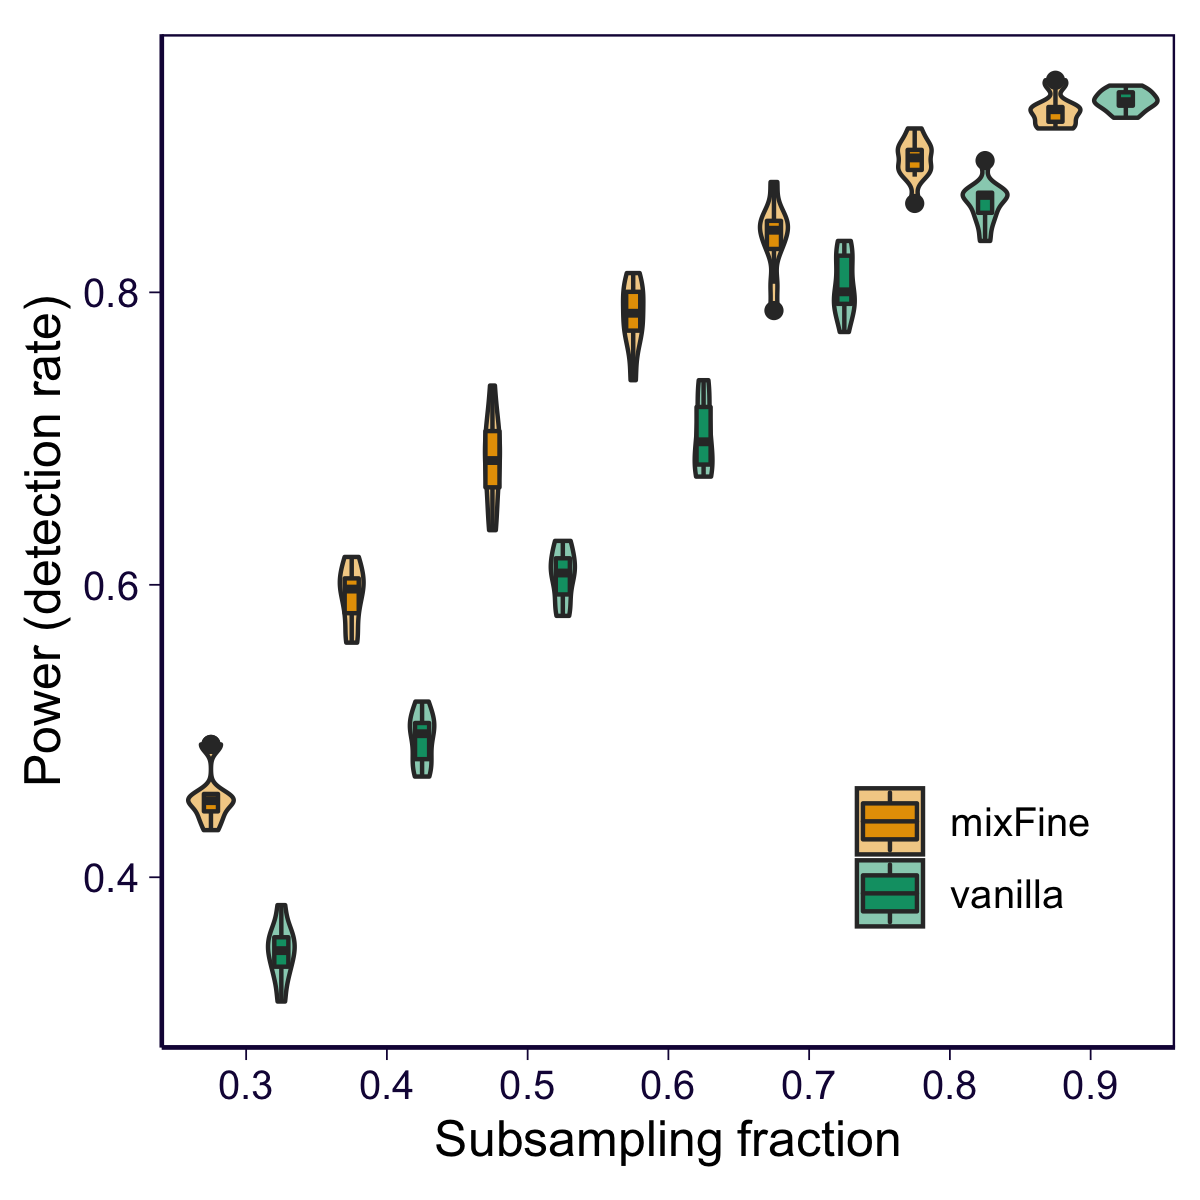
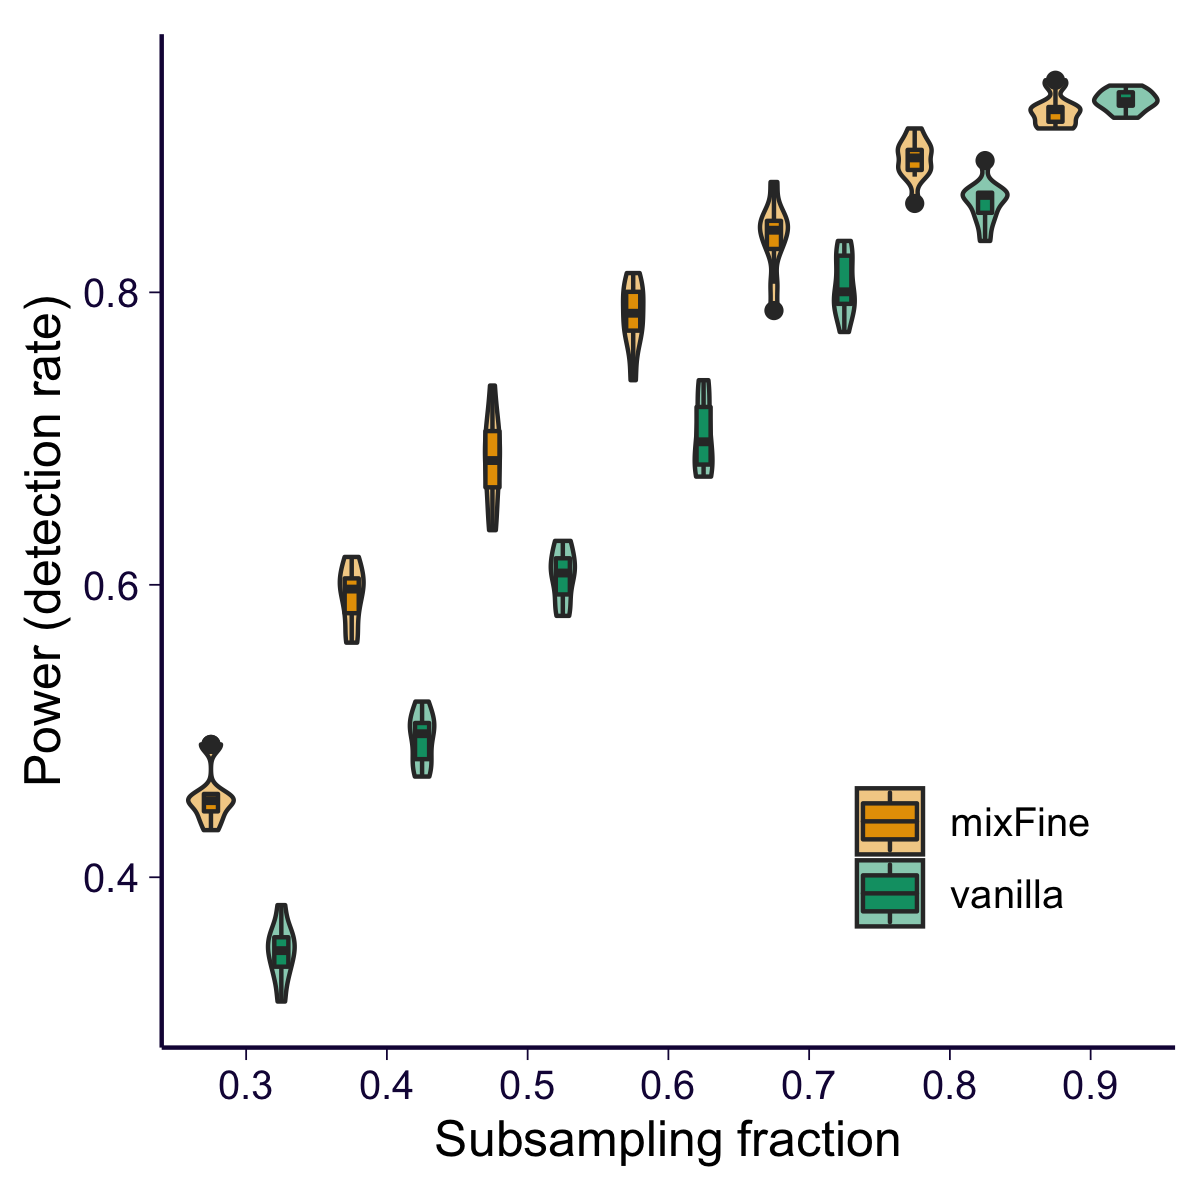
updated subsample plot

diff --git a/docs/gtex_v8_finemap_subsample.html b/docs/gtex_v8_finemap_subsample.html
@@ -380,14 +380,24 @@ theme_set(theme_bw(base_size = 12))
 library(dplyr)
 library(reshape2)
 library(stringr)
-library(data.table)
-options(datatable.fread.datatable = FALSE)
+library(data.table)</code></pre>
+<pre><code>## data.table 1.12.8 using 4 threads (see ?getDTthreads).  Latest news: r-datatable.com</code></pre>
+<pre><code>## 
+## Attaching package: &#39;data.table&#39;</code></pre>
+<pre><code>## The following objects are masked from &#39;package:reshape2&#39;:
+## 
+##     dcast, melt</code></pre>
+<pre><code>## The following objects are masked from &#39;package:dplyr&#39;:
+## 
+##     between, first, last</code></pre>
+<pre class="r"><code>options(datatable.fread.datatable = FALSE)
 options(stringsAsFactors = FALSE)
 source(&#39;../code/rlib_analysis.R&#39;)
 datadir = &#39;/Users/yanyul/Desktop/mixqtl-pipeline-results/gtex_v8-results/&#39;
 cbPalette &lt;- c(&#39;ascQTL&#39; = &quot;#999999&quot;, &#39;mixFine&#39; = &quot;#E69F00&quot;, &#39;trcQTL&#39; = &quot;#56B4E9&quot;, &#39;vanilla&#39; = &quot;#009E73&quot;, &quot;#F0E442&quot;, &quot;#0072B2&quot;, &quot;#D55E00&quot;, &quot;#CC79A7&quot;)
 source(&#39;https://gist.githubusercontent.com/liangyy/43912b3ecab5d10c89f9d4b2669871c9/raw/8151c6fe70e3d4ee43d9ce340ecc0eb65172e616/my_ggplot_theme.R&#39;)
-th$panel.border = element_rect(colour = th$axis.line$colour)
+# th0 = th
+# th$panel.border = element_rect(colour = th$axis.line$colour)
 
 parse_name = function(ee) {
   ee = basename(ee)
@@ -453,13 +463,13 @@ df_both_complete = rbind(df_full_complete, df_subsample_complete)</code></pre>
 <h2><span class="header-section-number">2.1</span> Number of 95% credible set identified in total</h2>
 <pre class="r"><code>ncs_total = df_subsample_complete %&gt;% group_by(gene, method, fraction) %&gt;% summarize(ncs = length(unique(cs))) %&gt;% ungroup()
 g = ncs_total %&gt;% dcast(fraction + gene ~ method, value.var = &#39;ncs&#39;, fill = 0)</code></pre>
-<pre><code>## Warning in dcast(., fraction + gene ~ method, value.var = &quot;ncs&quot;, fill = 0): The dcast
-## generic in data.table has been passed a tbl_df and will attempt to redirect to the
-## reshape2::dcast; please note that reshape2 is deprecated, and this redirection is now
-## deprecated as well. Please do this redirection yourself like reshape2::dcast(.). In the
-## next version, this warning will become an error.</code></pre>
+<pre><code>## Warning in dcast(., fraction + gene ~ method, value.var = &quot;ncs&quot;, fill = 0): The dcast generic
+## in data.table has been passed a tbl_df and will attempt to redirect to the reshape2::dcast;
+## please note that reshape2 is deprecated, and this redirection is now deprecated as well.
+## Please do this redirection yourself like reshape2::dcast(.). In the next version, this
+## warning will become an error.</code></pre>
 <pre class="r"><code>g %&gt;% ggplot() + geom_point(aes(x = nefine, y = mixfine)) + facet_wrap(~fraction)</code></pre>
-<p><img src="gtex_v8_finemap_subsample_files/figure-html/unnamed-chunk-17-1.png" width="672" /></p>
+<p><img src="gtex_v8_finemap_subsample_files/figure-html/unnamed-chunk-1-1.png" width="672" /></p>
 </div>
 <div id="concensus-snps" class="section level2">
 <h2><span class="header-section-number">2.2</span> Concensus SNPs</h2>
@@ -472,12 +482,12 @@ df_subsample_with_consensus_summary_flat = df_subsample_with_consensus_summary %
 <pre><code>## Warning in dcast(., fraction + batch ~ method, value.var = &quot;fraction_of_detection&quot;): The
 ## dcast generic in data.table has been passed a grouped_df and will attempt to redirect to
 ## the reshape2::dcast; please note that reshape2 is deprecated, and this redirection is now
-## deprecated as well. Please do this redirection yourself like reshape2::dcast(.). In the
-## next version, this warning will become an error.</code></pre>
+## deprecated as well. Please do this redirection yourself like reshape2::dcast(.). In the next
+## version, this warning will become an error.</code></pre>
 <pre class="r"><code>df_subsample_with_consensus_summary_flat %&gt;% ggplot() + geom_point(aes(x = mixfine, y = nefine)) + geom_abline(slope = 1, intercept = 0)</code></pre>
-<p><img src="gtex_v8_finemap_subsample_files/figure-html/unnamed-chunk-18-1.png" width="672" /></p>
+<p><img src="gtex_v8_finemap_subsample_files/figure-html/unnamed-chunk-2-1.png" width="672" /></p>
 <pre class="r"><code>df_subsample_with_consensus_summary %&gt;% ggplot() + geom_boxplot(aes(x = as.factor(fraction), y = fraction_of_detection, color = method)) + scale_color_manual(values = cbPalette)</code></pre>
-<p><img src="gtex_v8_finemap_subsample_files/figure-html/unnamed-chunk-18-2.png" width="672" /></p>
+<p><img src="gtex_v8_finemap_subsample_files/figure-html/unnamed-chunk-2-2.png" width="672" /></p>
 <pre class="r"><code># for saving a nice plot
 temp = df_subsample_with_consensus_summary
 temp$method[temp$method == &#39;mixfine&#39;] = &#39;mixFine&#39;
@@ -485,7 +495,7 @@ temp$method[temp$method == &#39;nefine&#39;] = &#39;vanilla&#39;
 p = temp %&gt;% ggplot() + geom_violin(aes(x = as.factor(fraction), y = fraction_of_detection, fill = method), alpha = .5, position = position_dodge(1)) + geom_boxplot(aes(x = as.factor(fraction), y = fraction_of_detection, fill = method), alpha = 1, width = .2, position = position_dodge(1)) + scale_fill_manual(values = cbPalette) + xlab(&#39;Subsampling fraction&#39;) + ylab(&#39;Power (detection rate)&#39;) + theme(legend.position = c(0.8, 0.2), legend.title = element_blank()) # + ggtitle(&#39;Consensus variants \n (PIP &gt; 0.5 in both) \n being detected&#39;)
 p = p + th + theme(aspect.ratio = 1)
 p</code></pre>
-<p><img src="gtex_v8_finemap_subsample_files/figure-html/unnamed-chunk-18-3.png" width="672" /></p>
+<p><img src="gtex_v8_finemap_subsample_files/figure-html/unnamed-chunk-2-3.png" width="672" /></p>
 <pre class="r"><code>ggsave(&#39;../output/gtex-v8-pipeline-eqtl-finemapping-concensus-snp-with-gene-qc.png&#39;, p, height = 4, width = 4)</code></pre>
 </div>
 <div id="concensus-css" class="section level2">
@@ -504,11 +514,11 @@ sub_cs = df_subsample %&gt;% filter(paste(gene, variant_id) %in% paste(sub2$gene
 sub_cs = left_join(sub_cs, sub_cs_size_sub, by = c(&#39;gene&#39;, &#39;cs&#39;, &#39;batch&#39;, &#39;fraction&#39;, &#39;method&#39;))
 # flat to compare mixfine vs nefine
 sub_flat = sub_cs %&gt;% dcast(gene + variant_id + batch + fraction ~ method, value.var = &#39;cs_size&#39;)</code></pre>
-<pre><code>## Warning in dcast(., gene + variant_id + batch + fraction ~ method, value.var =
-## &quot;cs_size&quot;): The dcast generic in data.table has been passed a data.frame and will
-## attempt to redirect to the reshape2::dcast; please note that reshape2 is deprecated,
-## and this redirection is now deprecated as well. Please do this redirection yourself like
-## reshape2::dcast(.). In the next version, this warning will become an error.</code></pre>
+<pre><code>## Warning in dcast(., gene + variant_id + batch + fraction ~ method, value.var = &quot;cs_size&quot;):
+## The dcast generic in data.table has been passed a data.frame and will attempt to redirect
+## to the reshape2::dcast; please note that reshape2 is deprecated, and this redirection is now
+## deprecated as well. Please do this redirection yourself like reshape2::dcast(.). In the next
+## version, this warning will become an error.</code></pre>
 <pre class="r"><code># plot: for cs&#39;s detected in both mixfine and nefine
 th2 = th
 th2$panel.border = element_rect(colour = th2$axis.line$colour)
@@ -516,7 +526,7 @@ p = sub_flat %&gt;% filter(!is.na(mixfine), !is.na(nefine)) %&gt;% filter(fracti
 p = p + theme(axis.text.x = element_text(angle = 90, hjust = 1, vjust = .5)) # + coord_cartesian(xlim = c(0, 300), y = c(0, 300))
 p = p + th2
 p</code></pre>
-<p><img src="gtex_v8_finemap_subsample_files/figure-html/unnamed-chunk-19-1.png" width="672" /></p>
+<p><img src="gtex_v8_finemap_subsample_files/figure-html/unnamed-chunk-3-1.png" width="672" /></p>
 <pre class="r"><code>ggsave(&#39;../output/gtex-v8-pipeline-eqtl-finemapping-cs-size-gene-qc.png&#39;, p, height = 5, width = 4)
 
 # plot: counting how many cs&#39;s are detected
@@ -525,12 +535,12 @@ sub_sum_flat = sub_sum %&gt;% dcast(fraction + batch ~ method, value.var = &#39;
 <pre><code>## Warning in dcast(., fraction + batch ~ method, value.var = &quot;ntimes_detected&quot;): The dcast
 ## generic in data.table has been passed a grouped_df and will attempt to redirect to the
 ## reshape2::dcast; please note that reshape2 is deprecated, and this redirection is now
-## deprecated as well. Please do this redirection yourself like reshape2::dcast(.). In the
-## next version, this warning will become an error.</code></pre>
+## deprecated as well. Please do this redirection yourself like reshape2::dcast(.). In the next
+## version, this warning will become an error.</code></pre>
 <pre class="r"><code>p = sub_sum_flat %&gt;% ggplot() + geom_abline(slope = 1, intercept = 0, color = &#39;lightgray&#39;) + geom_point(aes(y = mixfine / nrow(sub2), x = nefine / nrow(sub2))) + ylab(&#39;Detection rate in mixFine&#39;) + xlab(&#39;Detection rate in vanilla&#39;) + coord_equal() # + ggtitle(&#39;Consensus CS \n (CS with same top variant) \n being detected&#39;)
 p = p + th
 p</code></pre>
-<p><img src="gtex_v8_finemap_subsample_files/figure-html/unnamed-chunk-19-2.png" width="672" /></p>
+<p><img src="gtex_v8_finemap_subsample_files/figure-html/unnamed-chunk-3-2.png" width="672" /></p>
 <pre class="r"><code>ggsave(&#39;../output/gtex-v8-pipeline-eqtl-finemapping-concensus-cs-gene-qc.png&#39;, p, height = 4, width = 4)</code></pre>
 </div>
 </div>
@@ -558,14 +568,14 @@ df_subsample_with_consensus_summary$expression_level = factor(df_subsample_with_
 
 df_subsample_with_consensus_summary_flat = df_subsample_with_consensus_summary %&gt;% dcast(fraction + batch + expression_level ~ method, value.var = &#39;fraction_of_detection&#39;)</code></pre>
 <pre><code>## Warning in dcast(., fraction + batch + expression_level ~ method, value.var =
-## &quot;fraction_of_detection&quot;): The dcast generic in data.table has been passed a grouped_df
-## and will attempt to redirect to the reshape2::dcast; please note that reshape2 is
-## deprecated, and this redirection is now deprecated as well. Please do this redirection
-## yourself like reshape2::dcast(.). In the next version, this warning will become an error.</code></pre>
+## &quot;fraction_of_detection&quot;): The dcast generic in data.table has been passed a grouped_df and
+## will attempt to redirect to the reshape2::dcast; please note that reshape2 is deprecated,
+## and this redirection is now deprecated as well. Please do this redirection yourself like
+## reshape2::dcast(.). In the next version, this warning will become an error.</code></pre>
 <pre class="r"><code>df_subsample_with_consensus_summary_flat %&gt;% ggplot() + geom_point(aes(x = mixfine, y = nefine)) + geom_abline(slope = 1, intercept = 0) + facet_wrap(~expression_level)</code></pre>
-<p><img src="gtex_v8_finemap_subsample_files/figure-html/unnamed-chunk-20-1.png" width="672" /></p>
+<p><img src="gtex_v8_finemap_subsample_files/figure-html/unnamed-chunk-4-1.png" width="672" /></p>
 <pre class="r"><code>df_subsample_with_consensus_summary %&gt;% ggplot() + geom_boxplot(aes(x = as.factor(fraction), y = fraction_of_detection, color = method)) + facet_wrap(~expression_level) # + scale_color_manual(values = cbPalette)</code></pre>
-<p><img src="gtex_v8_finemap_subsample_files/figure-html/unnamed-chunk-20-2.png" width="672" /></p>
+<p><img src="gtex_v8_finemap_subsample_files/figure-html/unnamed-chunk-4-2.png" width="672" /></p>
 <pre class="r"><code># for saving a nice plot
 temp = df_subsample_with_consensus_summary
 temp$method[temp$method == &#39;mixfine&#39;] = &#39;mixFine&#39;
@@ -573,7 +583,7 @@ temp$method[temp$method == &#39;nefine&#39;] = &#39;vanilla&#39;
 p = temp %&gt;% ggplot() + geom_violin(aes(x = as.factor(fraction), y = fraction_of_detection, fill = method), alpha = .5, position = position_dodge(1)) + geom_boxplot(aes(x = as.factor(fraction), y = fraction_of_detection, fill = method), alpha = 1, width = .2, position = position_dodge(1)) + scale_fill_manual(values = cbPalette) + xlab(&#39;Subsampling fraction&#39;) + ylab(&#39;Power (detection rate)&#39;) + theme(legend.position = &#39;bottom&#39;, legend.title = element_blank()) + facet_wrap(~expression_level)  # + ggtitle(&#39;Consensus variants \n (PIP &gt; 0.5 in both) \n being detected&#39;)
 p = p + th2 + theme(aspect.ratio = 1)
 p</code></pre>
-<p><img src="gtex_v8_finemap_subsample_files/figure-html/unnamed-chunk-20-3.png" width="672" /></p>
+<p><img src="gtex_v8_finemap_subsample_files/figure-html/unnamed-chunk-4-3.png" width="672" /></p>
 <pre class="r"><code>ggsave(&#39;../output/gtex-v8-pipeline-eqtl-finemapping-concensus-snp-with-gene-qc-stratified.png&#39;, p, height = 6, width = 12)</code></pre>
 </div>
 
